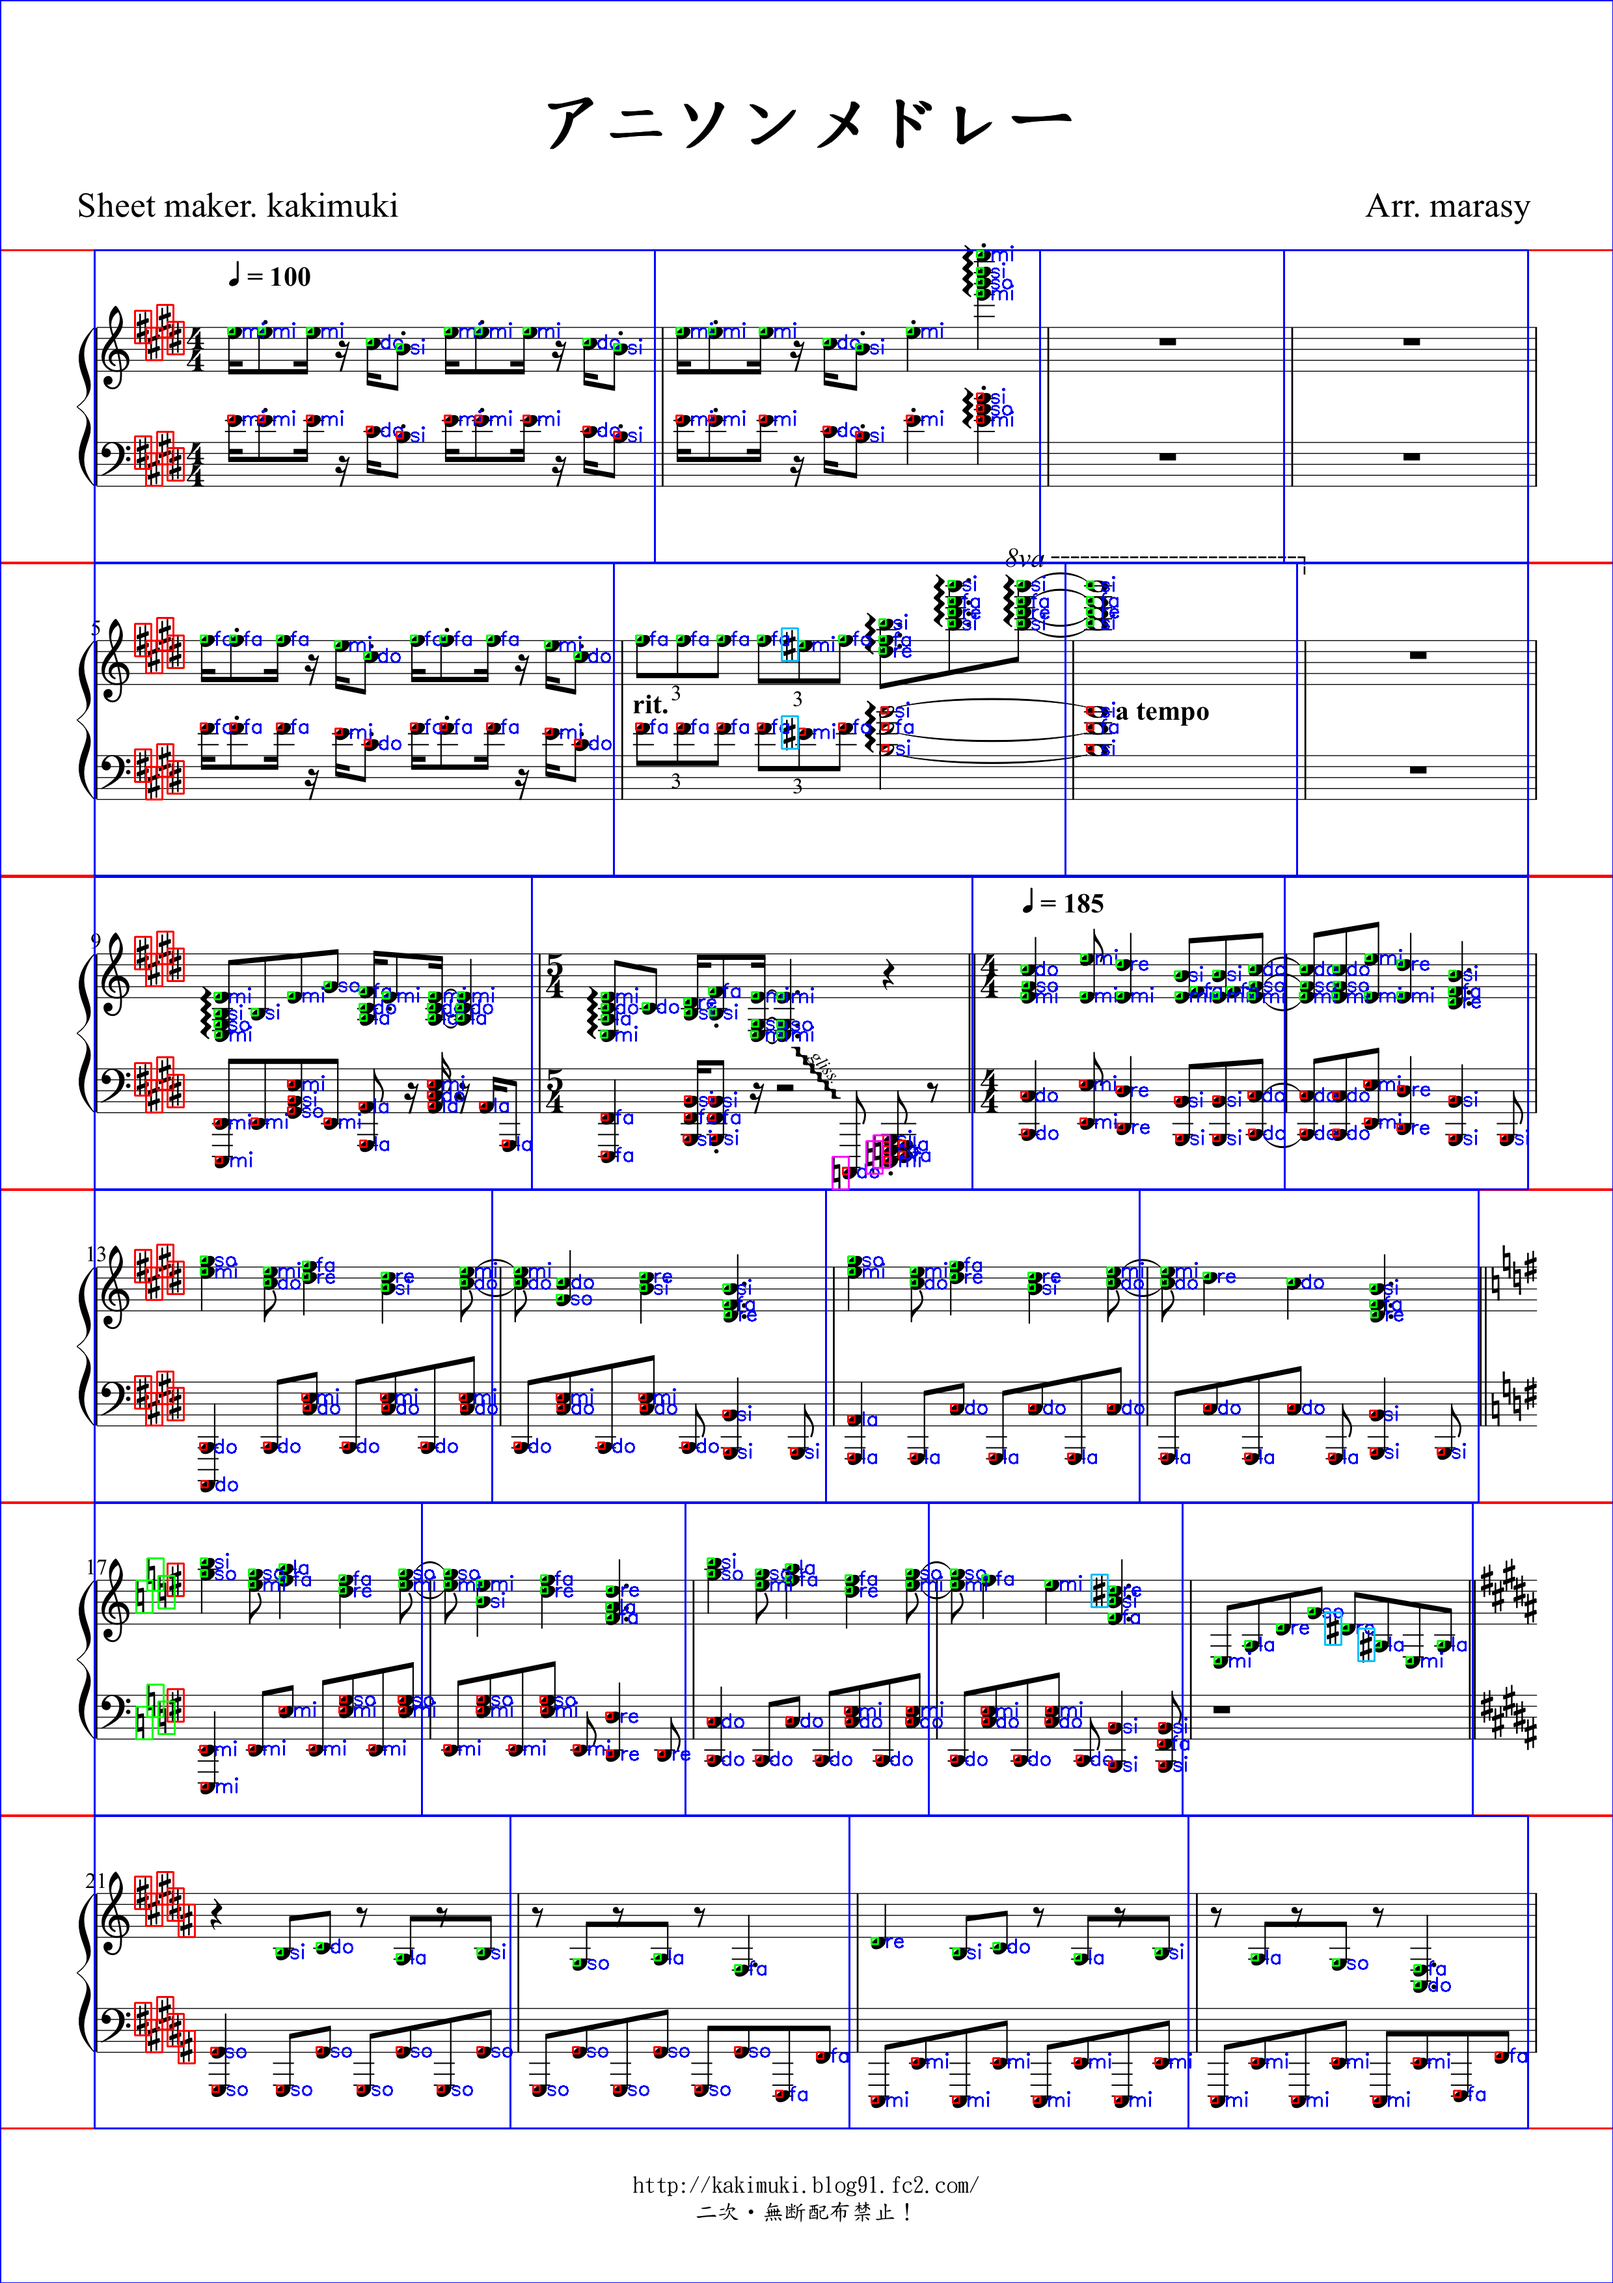
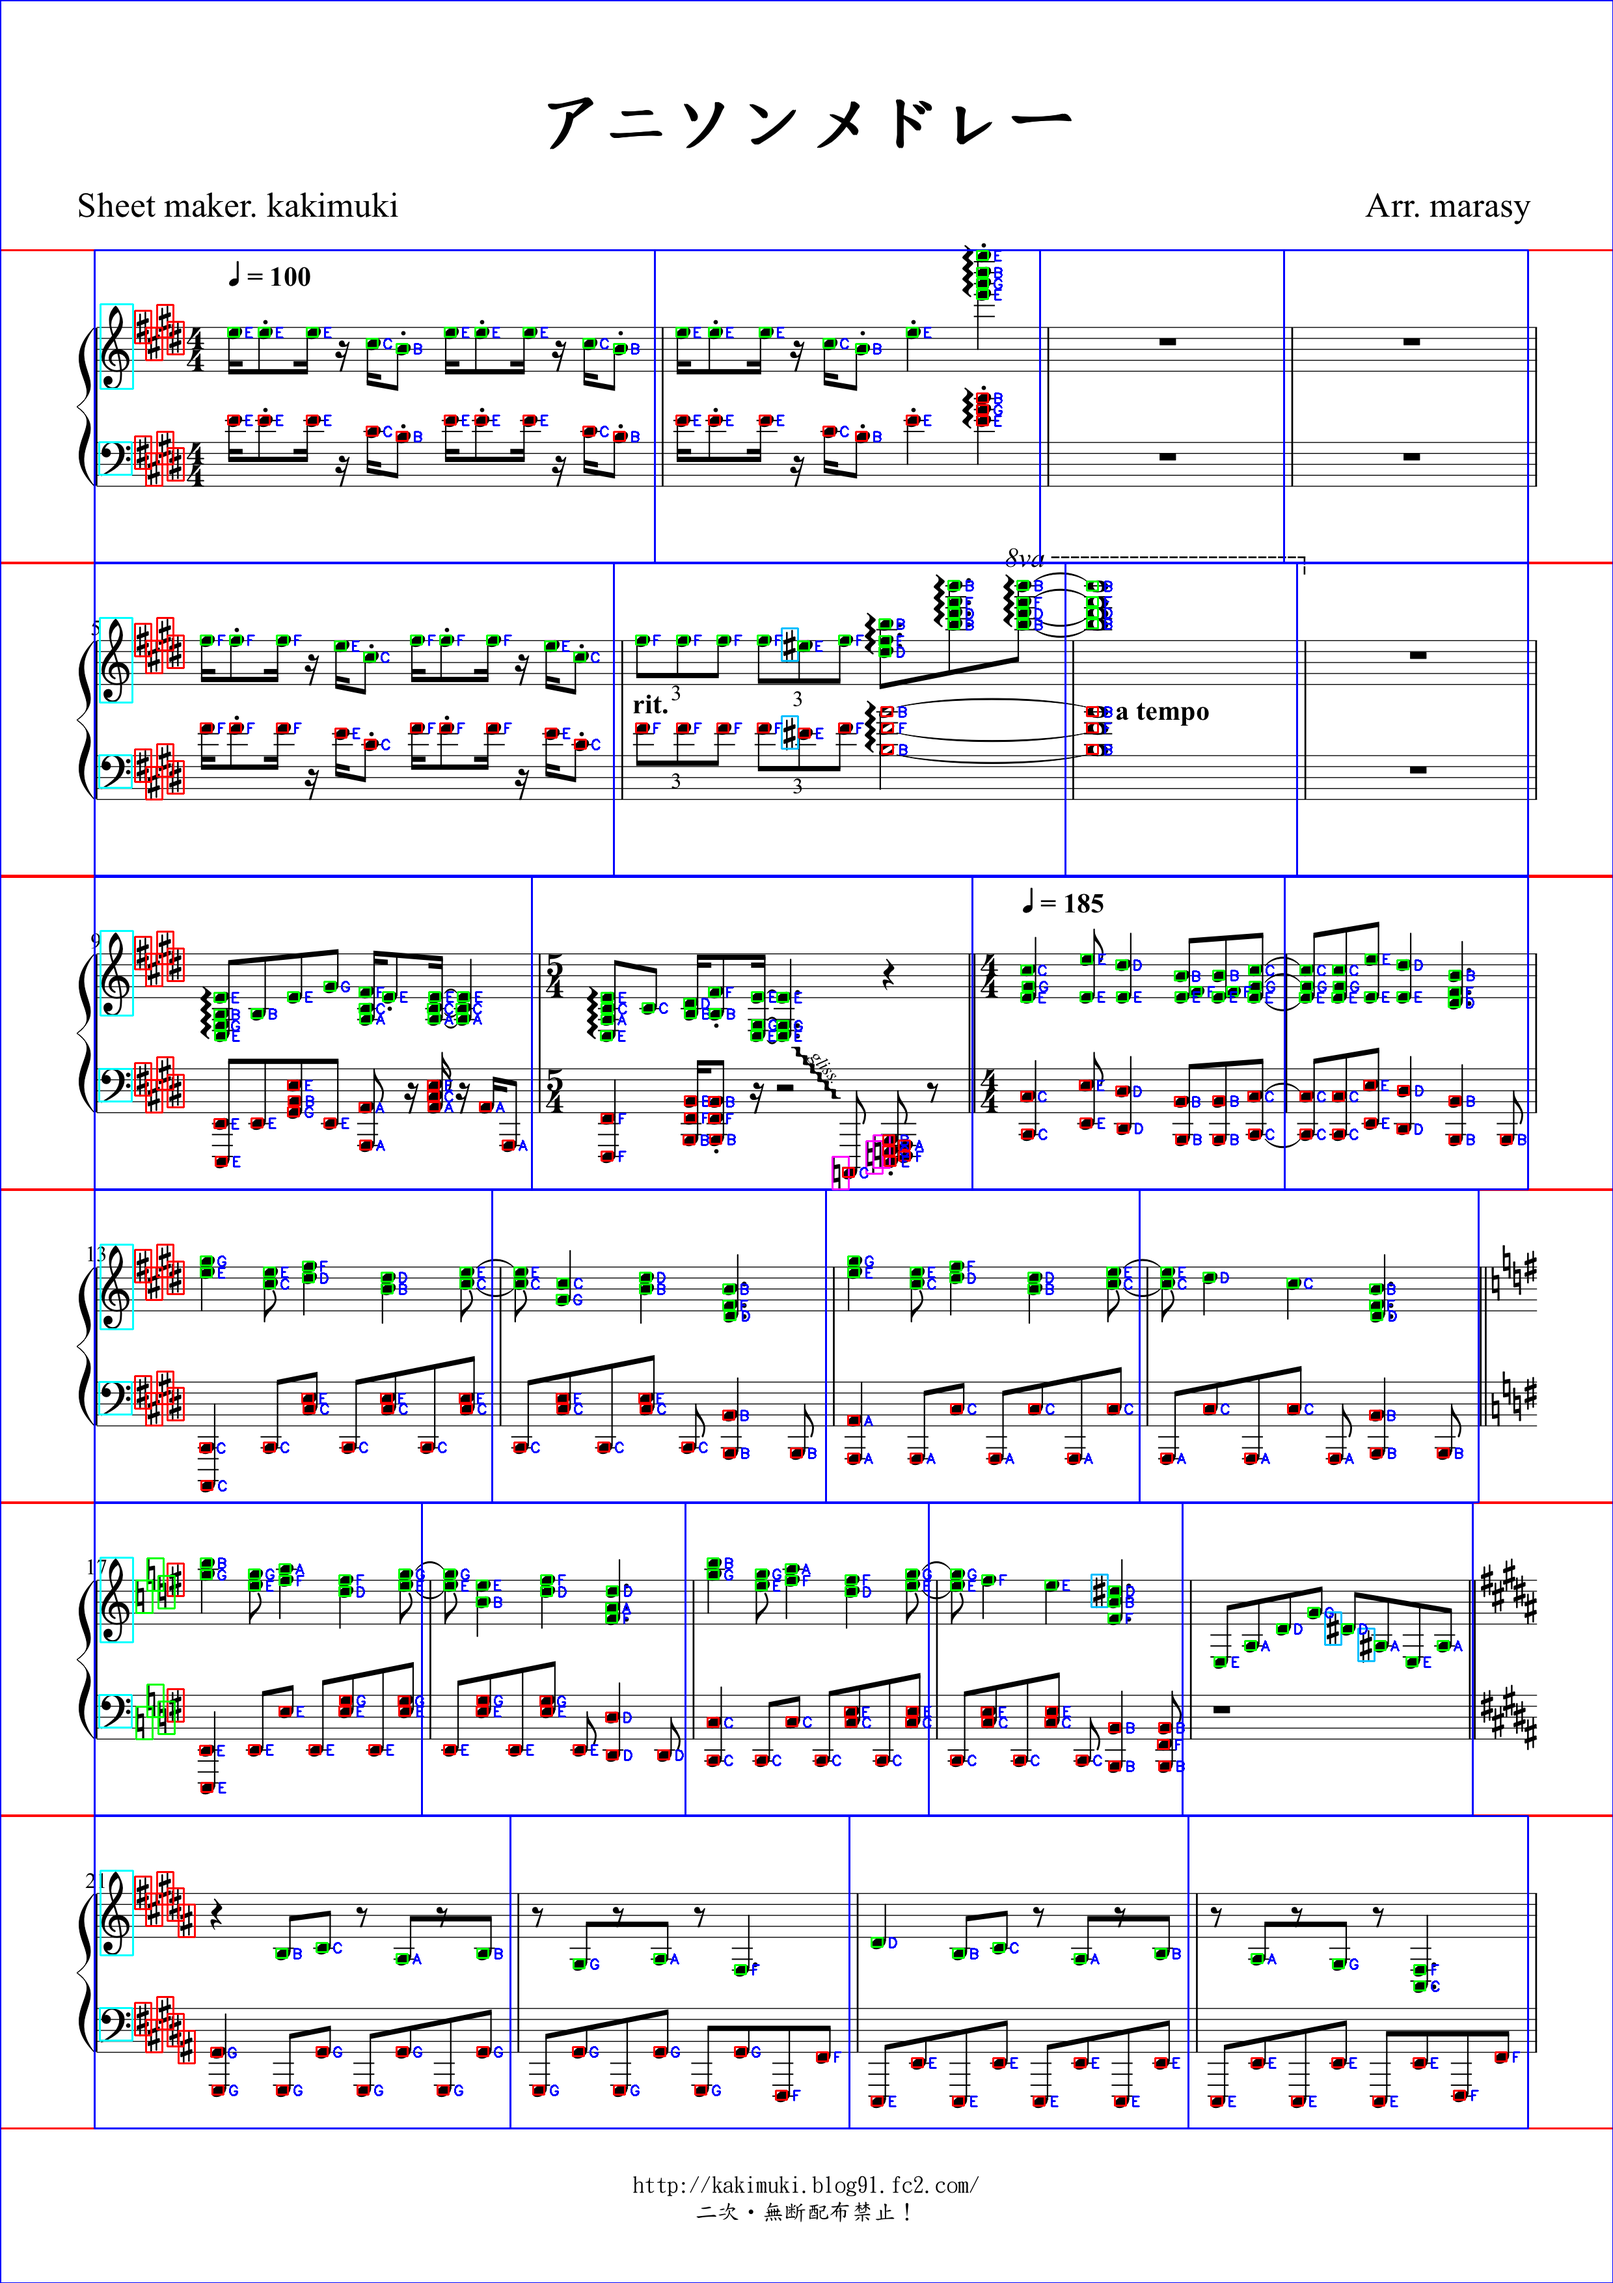
finish note analysis

diff --git a/src/page.py b/src/page.py
@@ -29,7 +29,7 @@ class Page:
         self.construct_lines()
 
         self.draw_lines()
-        self.draw_sheet()
+        self.draw_page()
         self.draw_bars()
 
     def construct_lines(self):
@@ -53,6 +53,12 @@ class Page:
 
     def analyze_notes(self):
         all_note_points = find_all_dir_templates(self.image, note_dir, 0.8, 50 )
+        all_clef_points = find_all_dir_templates(self.image, clef_dir, 0.85, 500)
+        all_bass_points = find_all_dir_templates(self.image, bass_dir, 0.85, 500)
+        draw_all_rectangles(self.image, all_bass_points, 50, 50, light_blue)
+        draw_all_rectangles(self.image, all_clef_points, 50, 130, light_blue)
+        print(all_clef_points)
+        print(all_bass_points)
 
         for line in self.lines:
             line.analyze_notes(all_note_points)
@@ -65,7 +71,7 @@ class Page:
             line.analyze_sharp_and_flat_points(all_sharp_points, all_flat_points, all_natural_points)
 
     # visualize sheet components
-    def draw_sheet(self):
+    def draw_page(self):
         draw_one_rectangle(self.image, (0, 0), self.width, self.height, blue)
 
     def draw_lines(self):
@@ -79,6 +85,10 @@ class Page:
     def draw_sharp_flat_natural(self):
         for line in self.lines:
             line.draw_sharp_flat_natural()
+
+    def draw_notes(self):
+        for line in self.lines:
+            line.draw_notes()
 
     def save(self, name):
         save(name, self.image)

diff --git a/src/note.py b/src/note.py
@@ -21,12 +21,9 @@ class Note:
         self.half_note_height = half_note_height
         self.origin_line = origin_line
 
-    def draw_note(self):
-        color = red
-        if self.is_top:
-            color = green
-        draw_one_rectangle(self.image, self.top_left_point, 10, 10, color)
+        self.analyze_pitch()
 
+    def analyze_pitch(self):
         count = 0
         target_height = self.top_left_point[1]
         start_height = self.origin_line
@@ -44,7 +41,7 @@ class Note:
                 while count < 0:
                     count += 7
             count %= 7
-            draw_text(self.image, (self.top_left_point[0]+20, self.top_left_point[1]+15), top_note_dict[count], blue)
+            
 
         else:
 
@@ -60,7 +57,18 @@ class Note:
                 while count < 0:
                     count += 7
             count %= 7
-        
-   
 
-            draw_text(self.image, (self.top_left_point[0]+20, self.top_left_point[1]+15), top_note_dict[count], blue)
+        self.pitch = top_note_dict[count]
+
+        
+
+    def draw_note(self):
+        color = red
+        if self.is_top:
+            color = green
+            
+        draw_one_rectangle(self.image, self.top_left_point, 17, 14, color)
+
+        draw_text(self.image, (self.top_left_point[0]+25, self.top_left_point[1]+15), self.pitch, blue)
+
+      

diff --git a/src/bar.py b/src/bar.py
@@ -112,8 +112,6 @@ class Bar:
         for bottom_note_point in bottom_note_points:
             self.notes.append(Note(self.image, bottom_note_point, False, self.half_note_height, self.line_height_D))
 
-        for note in self.notes:
-            note.draw_note()
         
 
     def get_points_inside(self, points):
@@ -133,6 +131,10 @@ class Bar:
     def draw_bar(self):
         height = self.line_height + self.line_gap*2
         draw_one_rectangle(self.image, self.top_left_point, self.width, height, blue)
+
+    def draw_notes(self):
+        for note in self.notes:
+            note.draw_note()
 
     def draw_sharp_flat_natural(self):
         draw_all_rectangles(self.image, self.bar_sharp_points, 25, 50, amber)

diff --git a/src/constants.py b/src/constants.py
@@ -24,6 +24,8 @@ flat_dir = 'data/flat/'
 
 bass_dir = 'data/bass/'
 
+clef_dir = 'data/clef/'
+
 natural_dir = 'data/natural/'
 
 note_dir = 'data/note/'
@@ -31,5 +33,5 @@ note_dir = 'data/note/'
 horizontal_line_dir = 'data/horizontal_line/'
 
 
-# top_note_dict = ['F', 'E', 'D', 'C', 'B', 'A', 'G']
-top_note_dict = ['fa', 'mi', 're', 'do', 'si', 'la', 'so']
+top_note_dict = ['F', 'E', 'D', 'C', 'B', 'A', 'G']
+# top_note_dict = ['fa', 'mi', 're', 'do', 'si', 'la', 'so']

diff --git a/src/tools.py b/src/tools.py
@@ -18,7 +18,7 @@ def draw_one_horizontal_line(img, left_end, width, height, color):
 def draw_text(image, top_left_point, text, color):
     font                   = cv2.FONT_HERSHEY_SIMPLEX
     bottomLeftCornerOfText = (10,500)
-    fontScale              = 1
+    fontScale              = 0.7
     lineType               = 2
     cv2.putText(image, str(text), top_left_point, font, fontScale, color, lineType)
 

diff --git a/src/line.py b/src/line.py
@@ -122,6 +122,10 @@ class Line:
         for bar in self.bars:
             bar.draw_bar()
 
+    def draw_notes(self):
+        for bar in self.bars:
+            bar.draw_notes()
+
     def draw_sharp_flat_natural(self):
         draw_all_rectangles(self.image, self.front_sharp_points, 25, 50, red)
         draw_all_rectangles(self.image, self.front_natural_points, 25, 50, green)

diff --git a/main.py b/main.py
@@ -3,10 +3,12 @@ from src.page import Page
 
 page = Page('sample.png', 250)
 
-page.analyze_sharp_flat_natural()
 page.analyze_notes()
+
+page.analyze_sharp_flat_natural()
+
 
 
 page.draw_sharp_flat_natural()
-
+page.draw_notes()
 page.save('hhh.png')
